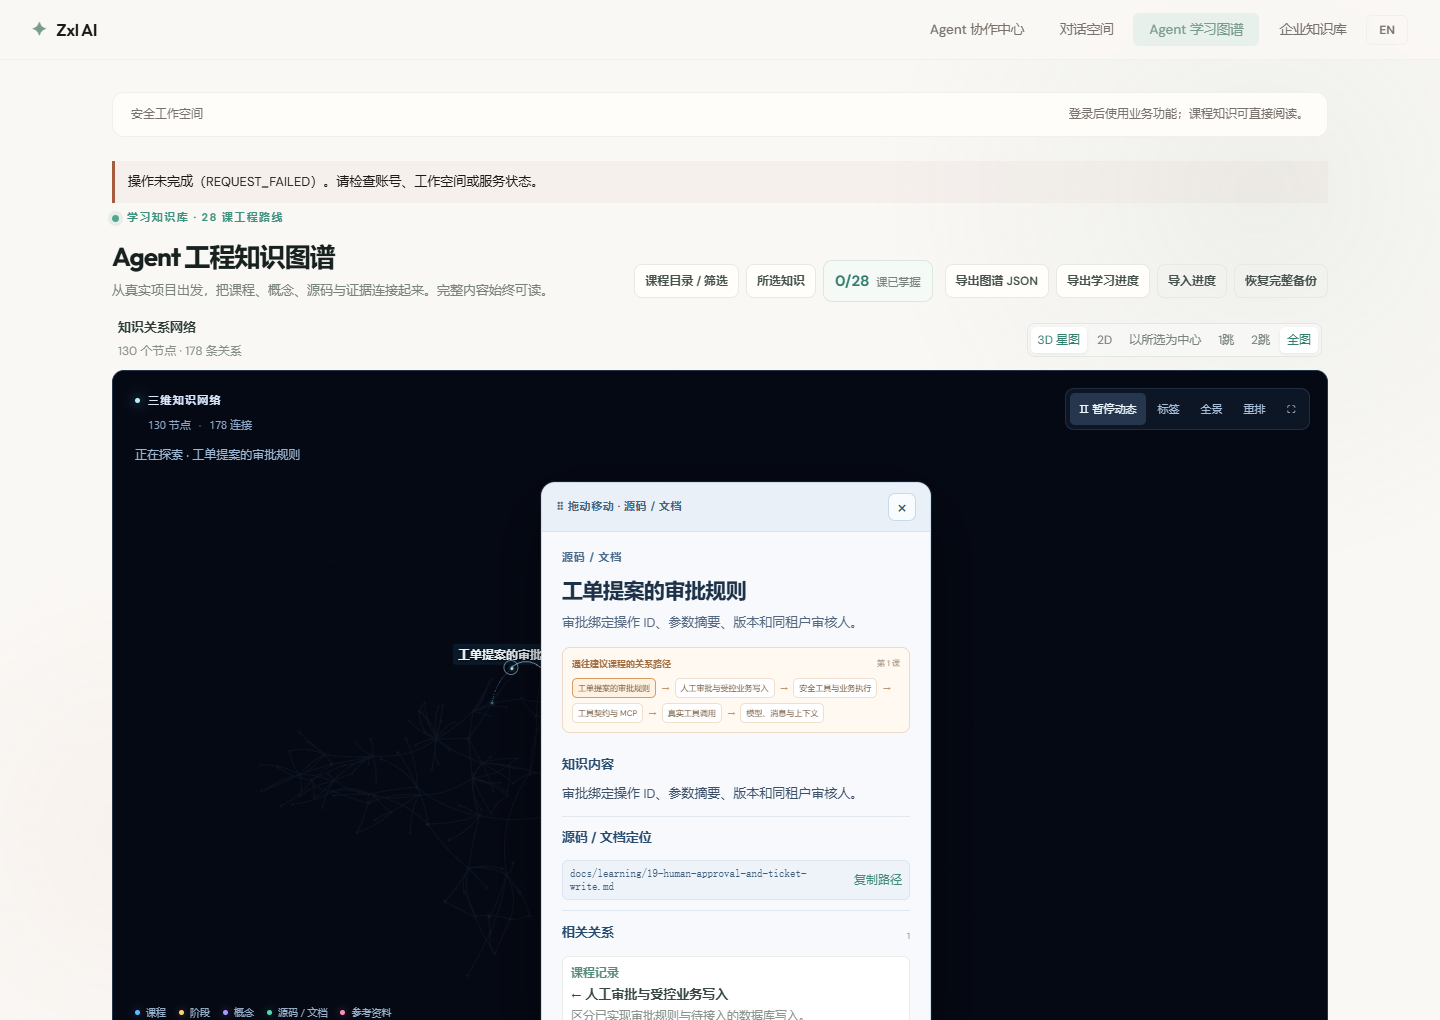
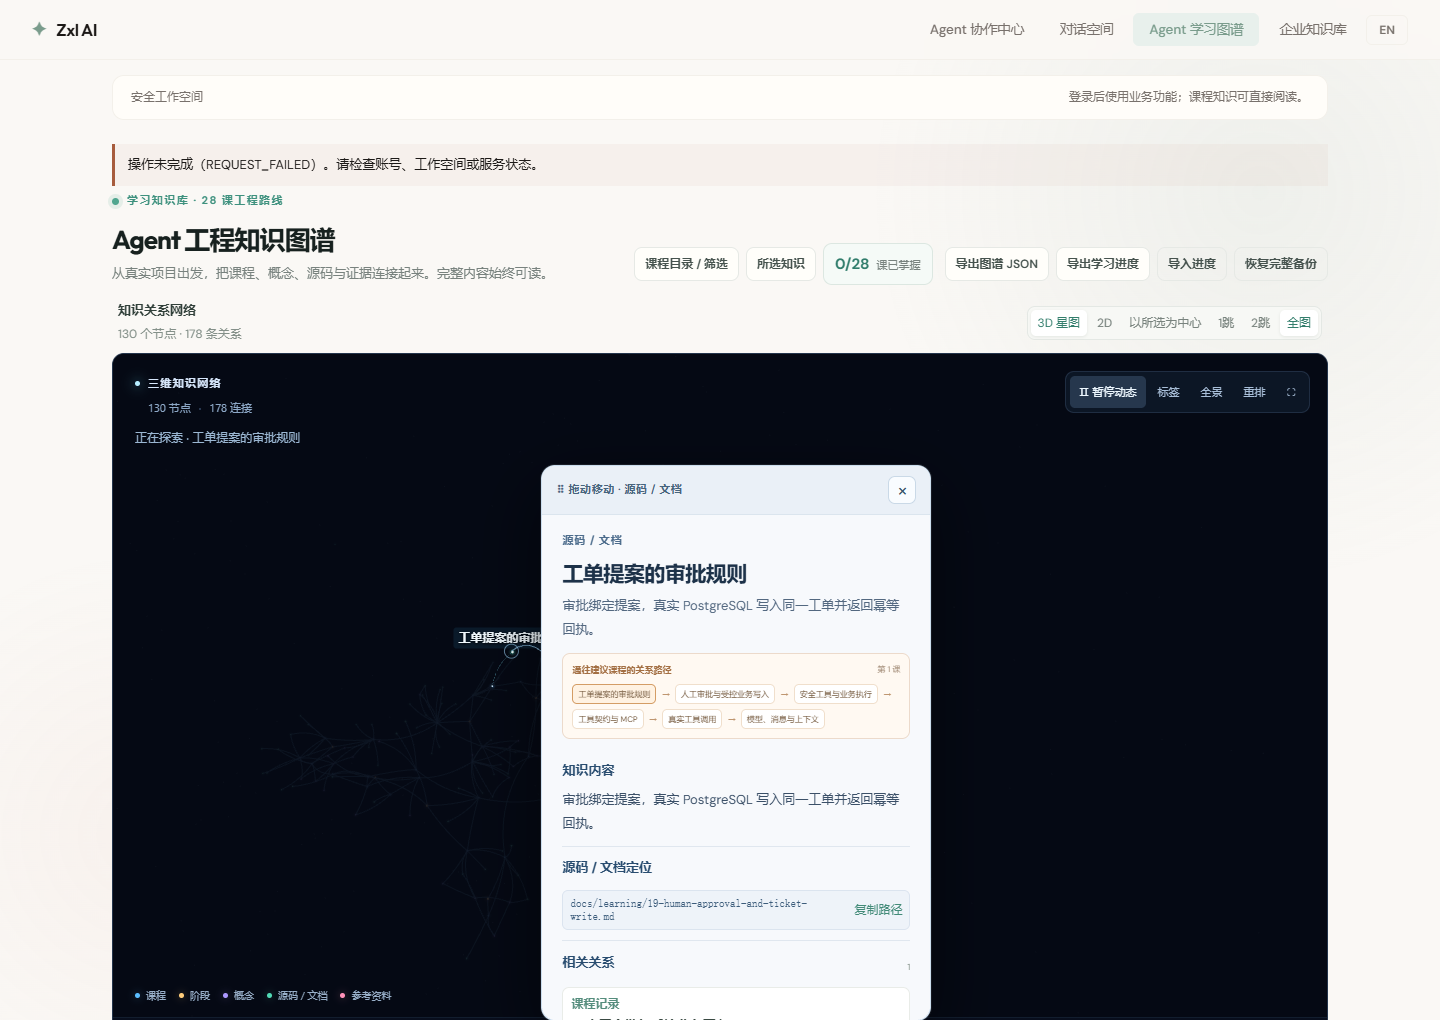
docs(learning): record PostgreSQL approval and receipt evidence

diff --git a/docs/learning/delivery-progress.md b/docs/learning/delivery-progress.md
@@ -30,7 +30,7 @@
 | 16 | Skill 与受控业务策略 | 已实现，97项专项/受影响回归、真实PG/MCP/模型、版本回滚及逐状态截图分层验收；固定课堂身份，无真实写入 | [任务](16-skills-business-policies-and-controlled-tools.md) / [证据与边界](16-implementation.md) |
 | 17 | 身份、权限与租户隔离 | **进行中**：正式多 Agent 支持私有报告和取消，已记录真实混合检索及引用回答的成功与失败。旧历史已支持显式只读归档，真实 PG 并发、回滚和重启有证据；独立浏览器验证归档隔离。部分事实记忆和 Skill 撤权验收待补 | [任务包](17-tenant-authorization-and-tool-policy.md) / [实现与边界](17-implementation.md) / [旧历史归档](17-legacy-history-archive.md) |
 | 18 | 注入防护与运行隔离 | **进行中**。研究回答使用固定证据字段，本地回源有流式字节上限，工具事件复核后发布。已实测一例恶意来源。文件与网络隔离及完整攻击评估待实施 | [任务包](18-prompt-injection-and-runtime-isolation.md) · [实现记录](18-implementation.md) |
-| 19 | 人工审批与业务写入 | **进行中**。不可变提案与双人审批规则已实现，正式授权入口、PostgreSQL 持久化和工单写入待接通 | [课程与工程任务](19-human-approval-and-ticket-write.md) |
+| 19 | 人工审批与业务写入 | **进行中**。服务端审批、PostgreSQL 工单写入和重复回执已接通，正式 HTTP、草稿入口与审批页面待接通 | [课程与工程任务](19-human-approval-and-ticket-write.md) |
 | 20 | 执行事件与断线恢复 | 路线已规划；已有流式事件不等于持久游标恢复完成 | [路线第 6 阶段](enterprise-agent-roadmap.md) |
 | 21 | 日志、指标与追踪 | 路线已规划；现有局部耗时不等于全链路追踪完成 | [路线第 6 阶段](enterprise-agent-roadmap.md) |
 | 22 | Agent 评估与持续改进 | 路线已规划；复用第十三/十四课评估起点，完整业务集尚待建设 | [路线第 6 阶段](enterprise-agent-roadmap.md) |

diff --git a/docs/learning/19-human-approval-and-ticket-write.md b/docs/learning/19-human-approval-and-ticket-write.md
@@ -12,7 +12,15 @@
 mvn.cmd '-Dtest=TicketApprovalTest,TicketReliabilityTest,TicketApiTest' test
 ```
 
-这批 15 项通过，覆盖审批规则和已有工单教学演示。正式会话、PostgreSQL 事务及写入入口待接通。
+首批 15 项通过，覆盖审批规则和已有工单教学演示。
+
+## PostgreSQL 中的审批和写入
+
+`TicketApprovalWorkflow` 把服务端授权和业务写入放入同一个 PostgreSQL 事务。普通员工可提出工单，专职 `ticket-approver` 可审核和执行。审核仍需满足同租户及双人约束。仓储按租户与提案 ID 锁定数据，审批决定按预期版本保存。写入以租户和操作 ID 去重，重复执行返回已提交的同一工单。
+
+权限决定先写审计，业务写入放在保存点之后。业务失败只回滚业务部分，拒绝决定仍可提交审计。已有回执仍需当前审批会话和授权才可读取。HTTP、从已保存草稿提取提案以及审批页面仍待接通。
+
+本批用隔离 PostgreSQL 16.15 实测从 V2 升级到 V4。28 项联合回归通过。数据库用例覆盖角色分离、跨租户查询、事务回滚、并发执行只产生一条工单、重试返回原回执，以及审批会话撤销后的执行拒绝和审计。测试通过应用服务直接调用审批和写入，本批没有模型调用。[图谱入口验收](../images/lesson19-approval-2026-11-13/README.md)
 
 ## 工程任务
 

diff --git a/docs/images/lesson19-approval-2026-11-13/README.md b/docs/images/lesson19-approval-2026-11-13/README.md
@@ -2,4 +2,4 @@
 
 从第十九课打开审批规则证据节点，核对[中文阅读卡](04-graph-zh-3d.png)、[2D 视图](05-graph-zh-2d.png)、[一跳](06-graph-one-hop.png)、[英文阅读卡](07-graph-en-2d.png)和[标题筛选](08-graph-filter.png)。
 
-本批截图覆盖学习入口。正式审批页面与工单写入仍待接入。[课程任务](../../learning/19-human-approval-and-ticket-write.md)
+本批截图覆盖学习入口。PostgreSQL 写入与幂等回执由应用服务集成测试覆盖，正式审批页面待接入。[课程任务](../../learning/19-human-approval-and-ticket-write.md)
